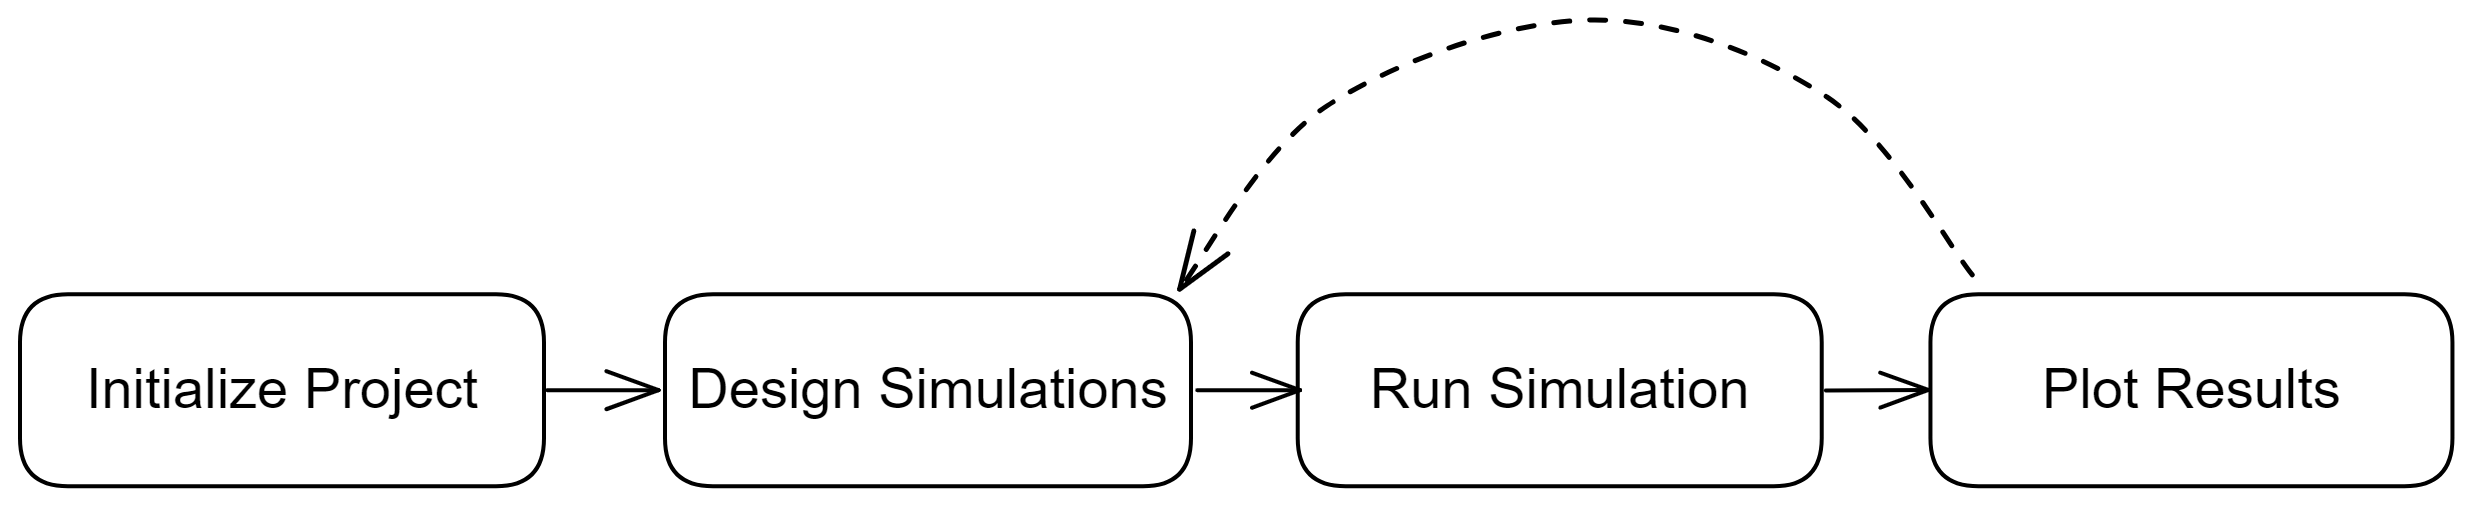
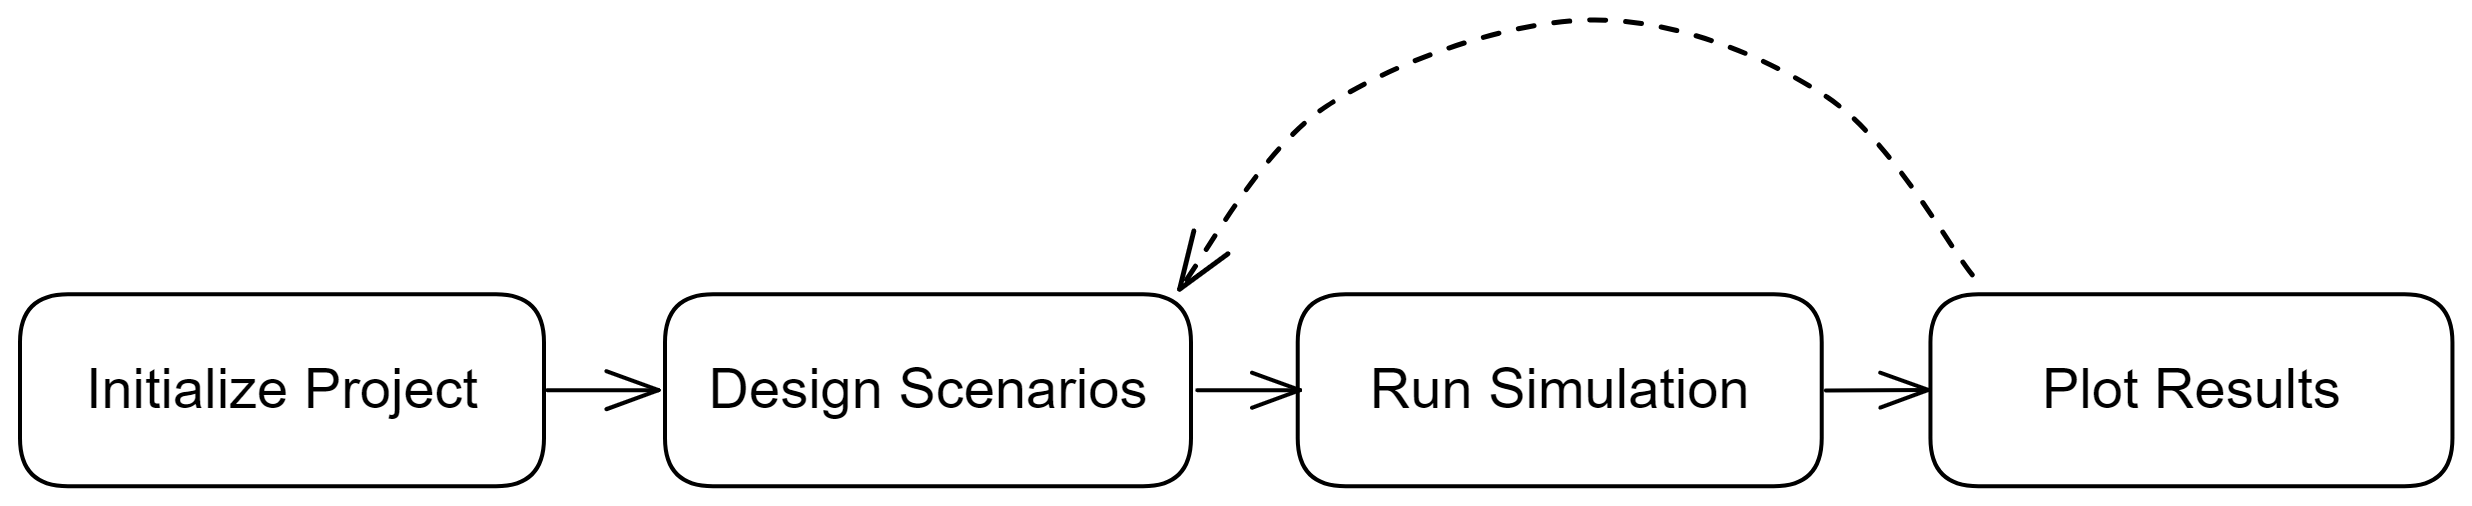
rename "design simulations" to "design scenarios"

Changed region(s): [[0.2803, 0.7115, 0.4672, 0.83]]

diff --git a/README.md b/README.md
@@ -12,14 +12,15 @@ status](https://ci.appveyor.com/api/projects/status/github/esqlabs/esqlabsr?bran
 <!-- badges: end -->
 
 The `esqlabsR` package facilitates and standardizes the modeling and
-simulation of physiologically based pharmacokinetic (PBPK) and
-quantitative structure-property relationship (QSP) models implemented in
-the [Open Systems Pharmacology
+simulation of physiologically based kinetic (PBK) and quantitative
+systems pharmacology/toxicology (QSP/T) models implemented in the [Open
+Systems Pharmacology
 Software](https://www.open-systems-pharmacology.org/).
 
-The esqlabsR package is designed for PBPK modelers using the OSPS suite.
+The esqlabsR package is designed for PBK modelers using the OSPS suite.
 By using the esqlabsR package, you can streamline your modeling and
-simulation workflow and ensure standardized and reproducible practices.
+simulation (M&S) workflow and ensure standardized and reproducible
+practices.
 
 The package provides functions to:
 
@@ -76,7 +77,7 @@ my_simulation <- runScenarios(
   scenarios = my_scenarios
 )
 
-# Initialize a datacombine object to store simulation results
+# Initialize a `DataCombined` object to store simulation results
 my_datacombined <- DataCombined$new()
 
 my_datacombined$addSimulationResults(my_simulation$TestScenario$results,
@@ -98,7 +99,7 @@ the specific topics:
   esqlabsR’s streamlined workflow.
 - `vignette("esqlabsR-project-structure")` details the structure and
   purpose of each component file and directory of an esqlabsR project.
-- `vignette("esqlabsR-design-simulations")` explains how you can design
+- `vignette("esqlabsR-design-scenarios")` explains how you can design
   your own simulations only using excel files.
 - `vignette("esqlabsR-run-simulations")` describes all you need to know
   to run your customized simulations.
